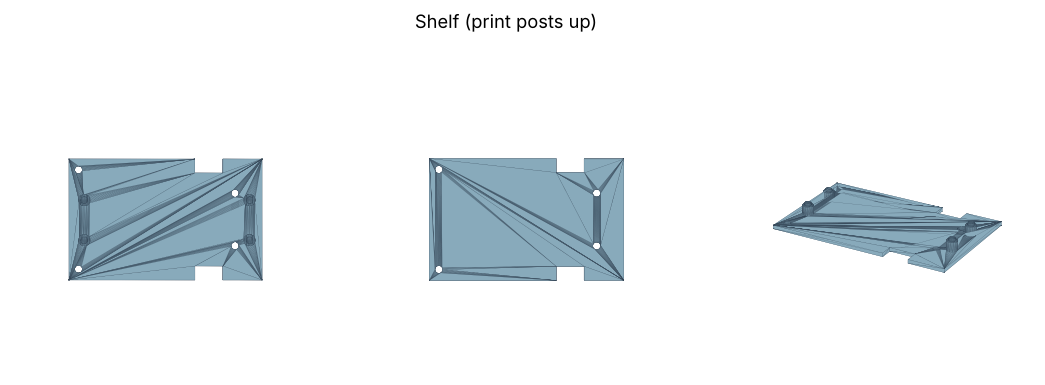
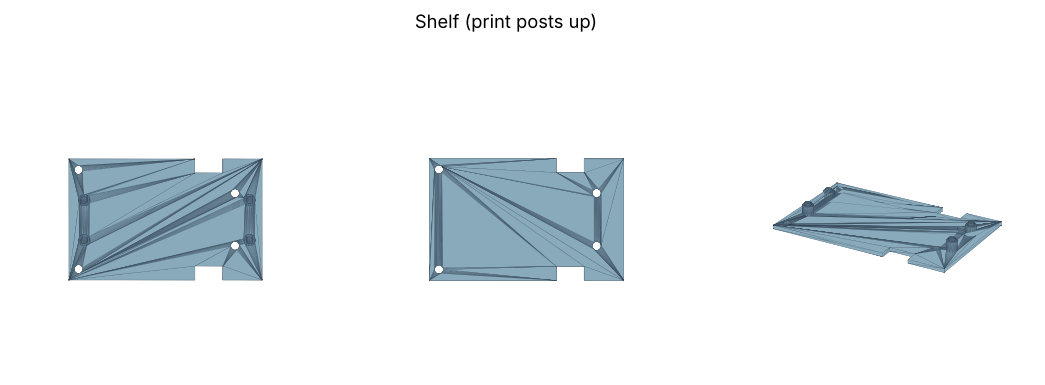
Case: make the shelf's holes for the legs' pins 0.3 mm looser
On a test print the back cover's leg pins were a tight fit in the
shelf's holes, which made closing the case awkward: the holes are now
2.5 mm for the 1.8 mm pins, not 2.2 mm.

Claude-Session: https://claude.ai/code/session_0192d9qTj9z8ZLN8ujS1jjpw

diff --git a/hardware/pico/case/case.py b/hardware/pico/case/case.py
@@ -233,6 +233,8 @@ SHELF_NOTCH = (8.0, 4.0)
 ## into its sockets.
 LEG_SIZE = 3.0
 LEG_PIN_D = 1.8
+## The shelf's holes for those pins: 0.3 mm looser than FIT, from a test print.
+LEG_HOLE_D = LEG_PIN_D + FIT + 0.3
 LEG_PIN_H = 1.2
 LEG_GAP = 0.2
 ## Snap hooks from the back cover that hold the charger on its posts, with or
@@ -571,7 +573,7 @@ def shelf():
     plate -= box(x0, i0 - 1, Z_SHELF - 1, x0 + nx, i0 + ny, Z_LAYER + 1)
     plate -= box(x0, HEIGHT - i0 - ny, Z_SHELF - 1, x0 + nx, HEIGHT - i0 + 1, Z_LAYER + 1)
     for x, y in leg_points():
-        plate -= cylinder(x, y, Z_SHELF - 1, Z_LAYER + 1, LEG_PIN_D + FIT)
+        plate -= cylinder(x, y, Z_SHELF - 1, Z_LAYER + 1, LEG_HOLE_D)
     return plate - usb_openings()
 
 
